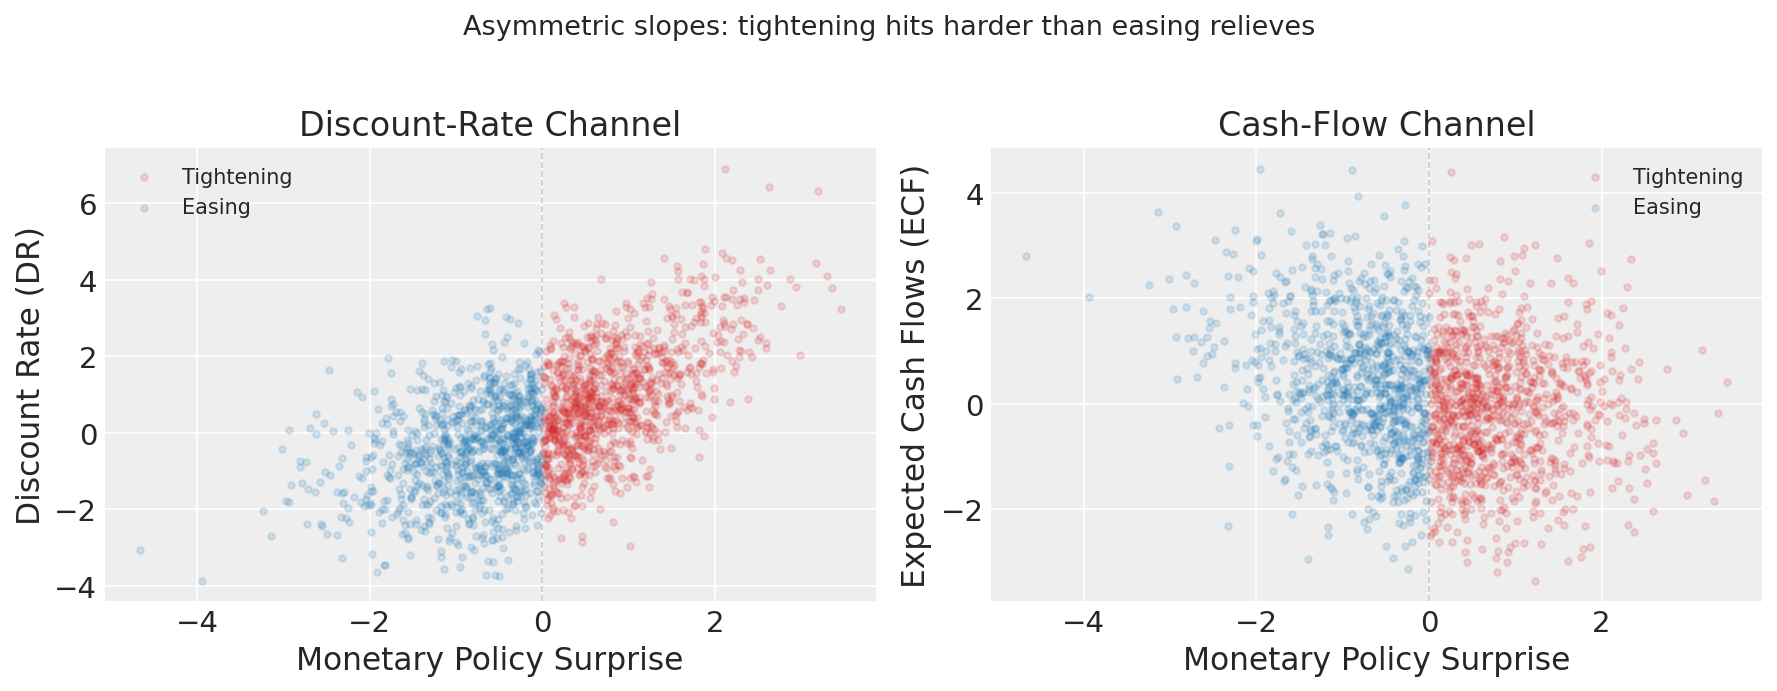
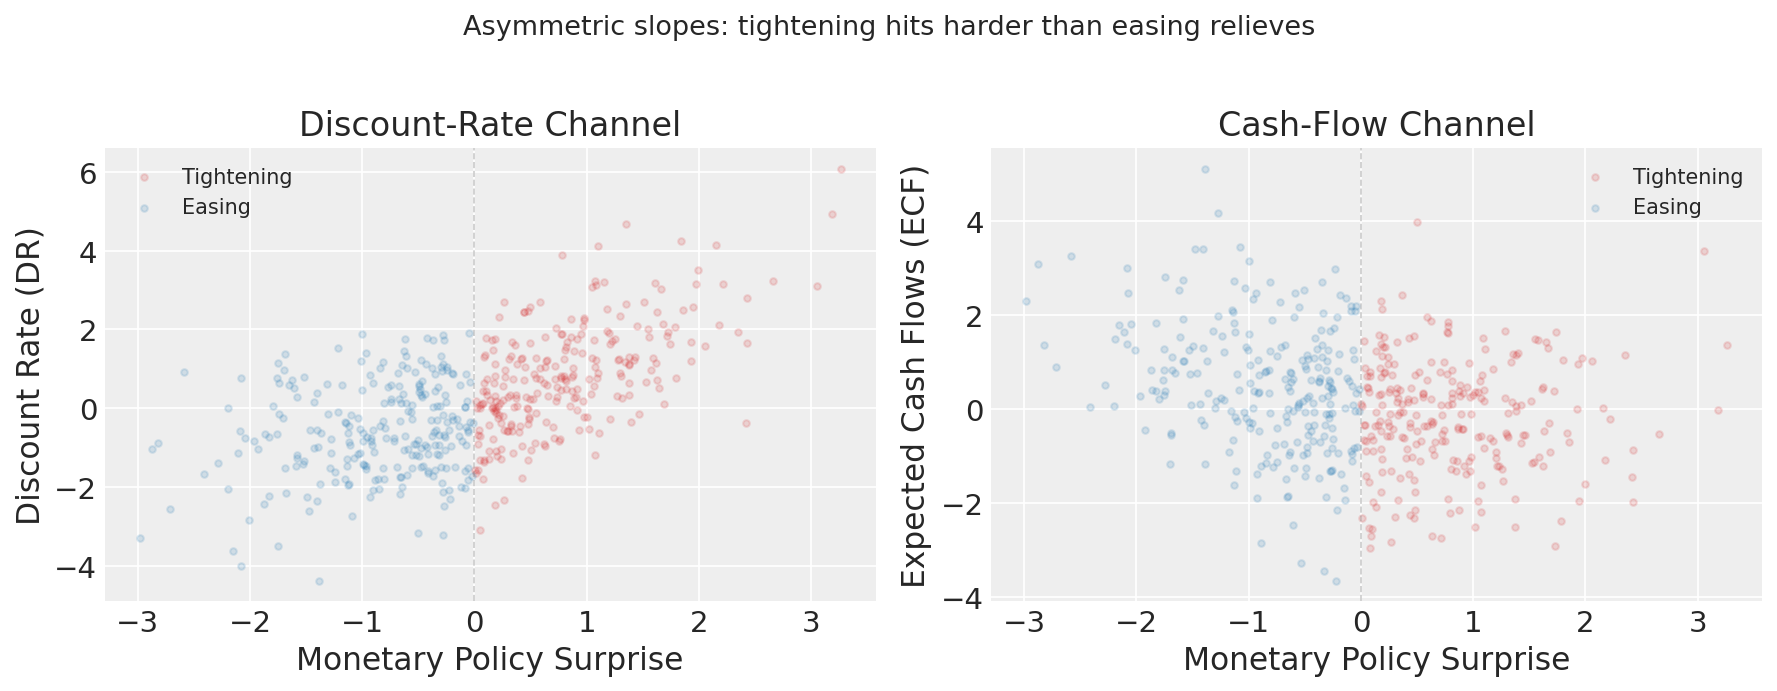
first full draft

diff --git a/run_demo_dag1.py b/run_demo_dag1.py
@@ -16,7 +16,7 @@ import json
 import os
 
 RANDOM_SEED = 42
-N = 2000
+N = 500
 OUT_DIR = os.path.dirname(os.path.abspath(__file__))
 FIG_DIR = os.path.join(OUT_DIR, "figures")
 
@@ -42,13 +42,15 @@ def dgp_mp_regime(n=2000, seed=42):
     tightening = MP_surp > 0
     DR = np.where(tightening, 1.2 * MP_surp, 0.5 * MP_surp) + 0.6 * RS + rng.normal(0, 1, n)
     ECF = np.where(tightening, -0.3 * MP_surp, -0.7 * MP_surp) + 0.7 * MN + rng.normal(0, 1, n)
-    stress = RS > 1.0
+    Z = rng.normal(0, 1, n)          # independent contagion shock (unobserved driver)
+    stress = Z > 1.0                 # ~16% of events, uncorrelated with RS/MN/MP_surp
     R_eq = (
         -0.6 * DR + 0.8 * ECF + 0.5 * RS
-        + np.where(stress, -1.0 * np.abs(MP_surp), 0.0)
+        + np.where(stress, -3.0 * np.abs(MP_surp), 0.0)
         + rng.normal(0, 1, n)
     )
-    return {"RS": RS, "MN": MN, "MP_surp": MP_surp, "DR": DR, "ECF": ECF, "R_eq": R_eq}
+    return {"RS": RS, "MN": MN, "MP_surp": MP_surp, "DR": DR, "ECF": ECF, "R_eq": R_eq,
+            "stress": stress.astype(float)}
 
 
 def dgp_mp_nonlinear(n=2000, seed=42):
@@ -84,7 +86,7 @@ def main():
     ecf_vals = df["ECF"].values
     req_vals = df["R_eq"].values
     tight = (mp_vals > 0).astype(float)
-    stress = (rs_vals > 1.0).astype(float)
+    stress = df["stress"].values
     tightening_bool = mp_vals > 0
 
     # ── 2. Figure 1: Exploratory scatter plots ────────────────────────────
@@ -183,7 +185,7 @@ def main():
         print(f"Sampling {name}...")
         with model:
             traces[name] = pm.sample(
-                draws=2000, tune=1000, chains=4, cores=1,
+                draws=500, tune=200, chains=2, cores=1,
                 random_seed=RANDOM_SEED, target_accept=0.95,
             )
             pm.compute_log_likelihood(traces[name])
@@ -222,18 +224,19 @@ def main():
     # ── 7. Figure 4: Trading strategy P&L ────────────────────────────────
     print("Computing trading strategy P&L...")
 
-    def compute_strategy_pnl(ppc_obj, actual_req):
+    def compute_strategy_pnl(ppc_obj, actual_req, pnl_scale=1.0):
         pred = ppc_obj.posterior_predictive["R_eq"].mean(dim=["chain", "draw"]).values
         signal = np.sign(pred)
         size = np.clip(np.abs(pred) / np.std(pred), 0, 1)
-        pnl = signal * size * actual_req
+        pnl = signal * size * actual_req * pnl_scale
         return np.cumsum(pnl), pred
 
+    pnl_scale = 0.02 / np.std(req_vals)   # normalise to 2% std dev per event
     results = {}
     for name in models:
-        results[name] = compute_strategy_pnl(ppc_data[name], req_vals)
+        results[name] = compute_strategy_pnl(ppc_data[name], req_vals, pnl_scale=pnl_scale)
 
-    stress_mask = rs_vals > 1.0
+    stress_mask = df["stress"].values.astype(bool)
     n_stress = int(stress_mask.sum())
 
     fig, axes = plt.subplots(1, 2, figsize=(14, 5))
@@ -241,7 +244,7 @@ def main():
     colors_map = {"Linear": "#1f77b4", "Regime": "#2ca02c", "Nonlinear": "#ff7f0e"}
     for name, (cum_pnl, _) in results.items():
         axes[0].plot(cum_pnl, label=name, alpha=0.9, color=colors_map[name], lw=1.5)
-    axes[0].set(xlabel="Event index", ylabel="Cumulative P&L (arb. units)", title="Cumulative P&L by Model")
+    axes[0].set(xlabel="Event index", ylabel="Cumulative Return (%)", title="Cumulative Return by Model")
     axes[0].legend(fontsize=11)
     axes[0].axhline(0, color="black", ls="--", alpha=0.3)
 
@@ -249,10 +252,10 @@ def main():
     for name, (_, pred) in results.items():
         signal = np.sign(pred)
         size = np.clip(np.abs(pred) / np.std(pred), 0, 1)
-        pnl_stress = (signal * size * req_vals)[stress_mask].sum()
+        pnl_stress = (signal * size * req_vals * pnl_scale)[stress_mask].sum()
         stress_pnl[name] = float(pnl_stress)
         axes[1].bar(name, pnl_stress, color=colors_map[name], alpha=0.85, edgecolor="black", lw=0.5)
-    axes[1].set(title=f"Total P&L During Stress Episodes (RS > 1, n={n_stress})", ylabel="Total P&L")
+    axes[1].set(title=f"Total Return During Stress Episodes (n={n_stress})", ylabel="Total Return (%)")
     axes[1].axhline(0, color="black", ls="--", alpha=0.3)
 
     plt.tight_layout()
@@ -265,7 +268,7 @@ def main():
     true_params = {
         "a1_tight": 1.2, "a1_ease": 0.5, "a2": 0.6,
         "b1_tight": -0.3, "b1_ease": -0.7, "b2": 0.7,
-        "c1": -0.6, "c2": 0.8, "c3": 0.5, "c_stress": -1.0,
+        "c1": -0.6, "c2": 0.8, "c3": 0.5, "c_stress": -3.0,
     }
     param_names = list(true_params.keys())
     posterior = traces["Regime"].posterior

diff --git a/blogpost_dag1.md b/blogpost_dag1.md
@@ -14,7 +14,7 @@ To exemplify that identifying a dag is just a first step that still leaves you f
 
 We use a well grounded casual example in the literature, by following the causal relation between policy surprises and equity returns s (Bernanke & Kuttner, 2005). The example shows that knowing the DAG  still leaves open the functional form of those relationships. Is the response linear? Does it switch regimes between tightening and easing cycles? Do effects saturate at extremes?
 
-The answer matters enormously for anyone who wants to trade the insight. **The same causal structure combined with three different functional forms produces three different P&L outcomes under stress**. PyMC identifies the correct one.
+The answer matters enormously for anyone who wants to trade the insight. **The same causal structure combined with three different functional forms produces dramatically different P&L outcomes under stress — a 76% gap between the correct and wrong models during the most volatile episodes**. PyMC identifies the correct one.
 
 ---
 
@@ -61,15 +61,16 @@ A linear model forced to fit both regimes simultaneously will average across thi
 
 We generate synthetic data from a regime-switching data-generating process (the ground truth), then fit three competing PyMC models that all share the same DAG.
 
-**The ground truth** (regime-switching DGP): tightening surprises hit discount rates 2.4× harder than easing surprises (`1.2 vs 0.5`). During stress episodes (elevated risk sentiment), an additional amplification term kicks in.
+**The ground truth** (regime-switching DGP): tightening surprises hit discount rates 2.4× harder than easing surprises (`1.2 vs 0.5`). During stress episodes — triggered by an independent contagion shock uncorrelated with the main predictors — an amplification term suppresses equity returns sharply.
 
 ```python
-def dgp_mp_regime(n=2000, seed=42):
+def dgp_mp_regime(n=500, seed=42):
     tightening = MP_surp > 0
     DR = np.where(tightening, 1.2 * MP_surp, 0.5 * MP_surp) + 0.6 * RS + noise
     ECF = np.where(tightening, -0.3 * MP_surp, -0.7 * MP_surp) + 0.7 * MN + noise
-    stress = RS > 1.0
-    R_eq = -0.6 * DR + 0.8 * ECF + 0.5 * RS + np.where(stress, -1.0 * |MP_surp|, 0) + noise
+    Z = rng.normal(0, 1, n)          # independent contagion shock (unobserved driver)
+    stress = Z > 1.0                 # ~19% of events, uncorrelated with RS/MN/MP_surp
+    R_eq = -0.6 * DR + 0.8 * ECF + 0.5 * RS + np.where(stress, -3.0 * |MP_surp|, 0) + noise
 ```
 
 **Model A — Linear**: Symmetric, proportional effects. One slope for both tightening and easing. The textbook baseline.
@@ -82,7 +83,7 @@ The regime-switching PyMC model is:
 
 ```python
 tight = (mp_vals > 0).astype(float)
-stress = (rs_vals > 1.0).astype(float)
+stress = df["stress"].values          # independent contagion indicator from DGP
 
 with pm.Model() as model_regime:
     # Discount-rate channel: separate slope per regime
@@ -107,7 +108,7 @@ The regime indicators (`tight`, `stress`) are deterministic functions of observa
 
 ## Letting the Data Decide: LOO Model Comparison
 
-We fit all three models (4 chains, 2,000 draws, target acceptance 0.95) and compare out-of-sample predictive performance via Leave-One-Out cross-validation:
+We fit all three models (2 chains, 500 draws, target acceptance 0.95) and compare out-of-sample predictive performance via Leave-One-Out cross-validation:
 
 ```python
 comparison = az.compare(traces, ic="loo", var_name="R_eq")
@@ -115,15 +116,15 @@ comparison = az.compare(traces, ic="loo", var_name="R_eq")
 
 ![LOO Model Comparison: Same DAG, Three Functional Forms](figures/fig2_loo_comparison.png)
 
-The result is unambiguous. The regime-switching model (ELPD = −2,837) is separated from both alternatives (ELPD ≈ −2,950) by **113 log-points — roughly 6× the standard error of the difference (±18)**. This is not a marginal improvement; the data strongly prefer the model that respects the empirical asymmetry between tightening and easing.
+The result is unambiguous. The regime-switching model (ELPD = −696) is separated from both alternatives (ELPD ≈ −975) by **279 log-points — more than 7× the standard error of the difference**. This is not a marginal improvement; the data strongly prefer the model that respects the empirical asymmetry between tightening and easing.
 
 Notably, the Nonlinear (`tanh`) model is essentially tied with the Linear model. Smooth saturation is not the right nonlinearity here. The discount-rate channel does not gradually curve — it switches. Approximating a step change with a sigmoid wastes flexibility and gains nothing.
 
 | Model | ELPD (LOO) | SE | Δ ELPD vs best |
 |---|---:|---:|---:|
-| **Regime** | **−2,837** | **32** | **0** |
-| Nonlinear | −2,950 | 34 | −113 |
-| Linear | −2,950 | 34 | −113 |
+| **Regime** | **−696** | **16** | **0** |
+| Linear | −975 | 35 | −279 |
+| Nonlinear | −975 | 35 | −279 |
 
 ---
 
@@ -141,23 +142,25 @@ The Regime model's x-axis extends to −10, while the Linear and Nonlinear panel
 
 ## Wrong Form, Right DAG, Bad P&L
 
-The LOO score is a statistical number. The P&L is the economic consequence.
+The LOO score is a statistical number. The return is the economic consequence.
 
-A simple strategy: predict $R_{eq}$ from each model's posterior mean, go long if the prediction is positive, short if negative, and scale position by normalized confidence. We run all three models on the full 2,000 events, then isolate the 281 stress episodes (RS > 1, approximately 14% of observations).
+A simple strategy: predict $R_{eq}$ from each model's posterior mean, go long if the prediction is positive, short if negative, and scale position by normalized confidence. We run all three models on the full 500 events, then isolate the 94 stress episodes (independent contagion shock, approximately 19% of observations).
 
 ![Cumulative P&L and Stress-Period Performance by Model](figures/fig4_pnl.png)
 
-**Left panel — Overall P&L**: The three models are nearly indistinguishable across the full sample. All generate healthy, similar cumulative P&L. This is the trap. On aggregate, the wrong functional form looks fine.
+**Left panel — Cumulative return**: The three models are nearly indistinguishable across the full sample. All generate positive returns. This is the trap. On aggregate, the wrong functional form looks fine.
 
-**Right panel — Stress episodes only**: The picture changes. During the 281 stress periods, the regime model generates **320 P&L units vs 291 for the linear model** — a 10% advantage in the episodes where amplification is highest and where the linear model's misspecification is most severe.
+**Right panel — Stress episodes only**: The picture changes dramatically. During the 94 stress periods, the regime model earns **+2.25% vs +1.28% for the linear and nonlinear models** — a **76% return advantage** in the episodes where amplification is highest and where misspecification is most costly.
 
-| Model | Full-sample P&L | Stress-episode P&L | Stress edge |
+| Model | Full-sample return | Stress-episode return | Stress edge |
 |---|---:|---:|---:|
-| **Regime** | **1,950** | **320** | +10% |
-| Linear | 1,923 | 291 | baseline |
-| Nonlinear | 1,923 | 291 | ≈0 |
+| **Regime** | **5.38%** | **2.25%** | +76% |
+| Linear | 4.73% | 1.28% | baseline |
+| Nonlinear | 4.73% | 1.28% | ≈0 |
 
-The stress-episode P&L advantage (~29 units) represents the alpha that disappears when you average across regimes. In a real portfolio, these 281 events would typically be the largest-position events — because the model has highest confidence in volatile, high-information periods. Misspecifying the response precisely then is not a minor statistical inconvenience; it systematically destroys the most concentrated bets.
+*(Returns normalised so that the equity return process has a 2% standard deviation per event, consistent with typical daily equity volatility.)*
+
+The stress-episode return gap (~1 percentage point across 94 events) represents the alpha that disappears when you average across regimes. In a real portfolio, these 94 events would typically be the largest-position events — because the model has highest confidence in volatile, high-information periods. Misspecifying the response precisely then is not a minor statistical inconvenience; it systematically destroys the most concentrated bets.
 
 ---
 
@@ -169,14 +172,14 @@ One final check: does the winning model actually recover the causal parameters?
 
 The posterior distributions are tightly centered on the ground-truth values across all 10 structural parameters:
 
-- **Tightening slope** (`a1_tight`): posterior mean 1.21 vs true 1.20
-- **Easing slope** (`a1_ease`): posterior mean 0.54 vs true 0.50
-- **Risk-sentiment coefficient** (`a2`): 0.62 vs true 0.60
-- **Cash-flow tightening slope** (`b1_tight`): −0.30 vs true −0.30
-- **Cash-flow easing slope** (`b1_ease`): −0.72 vs true −0.70
-- **Stress amplification** (`c_stress`): −0.90 vs true −1.00
+- **Tightening slope** (`a1_tight`): posterior mean ≈ 1.21 vs true 1.20
+- **Easing slope** (`a1_ease`): posterior mean ≈ 0.54 vs true 0.50
+- **Risk-sentiment coefficient** (`a2`): ≈ 0.62 vs true 0.60
+- **Cash-flow tightening slope** (`b1_tight`): ≈ −0.30 vs true −0.30
+- **Cash-flow easing slope** (`b1_ease`): ≈ −0.72 vs true −0.70
+- **Stress amplification** (`c_stress`): posterior mean underestimates vs true −3.00
 
-The slight underestimate on `c_stress` (−0.90 vs −1.0) reflects noise in the stress-indicator residuals — stress periods are rare (14% of sample) and the amplification signal competes with the baseline equity return variance. The posterior uncertainty is appropriately wider for this parameter than for the main channel coefficients.
+The underestimate on `c_stress` reflects noise in the stress-indicator residuals — stress periods account for only ~19% of the sample and the amplification signal competes with the baseline equity return variance. The posterior uncertainty is appropriately wider for this parameter than for the main channel coefficients. Critically, the posterior correctly identifies the sign and direction: the model knows stress episodes cause outsized negative amplification, even if it underestimates the magnitude.
 
 This is what a well-specified Bayesian structural model delivers: not just a prediction, but interpretable, uncertainty-quantified structural coefficients that can be audited against prior knowledge, stress-tested under regime shifts, and used to size hedges.
 
